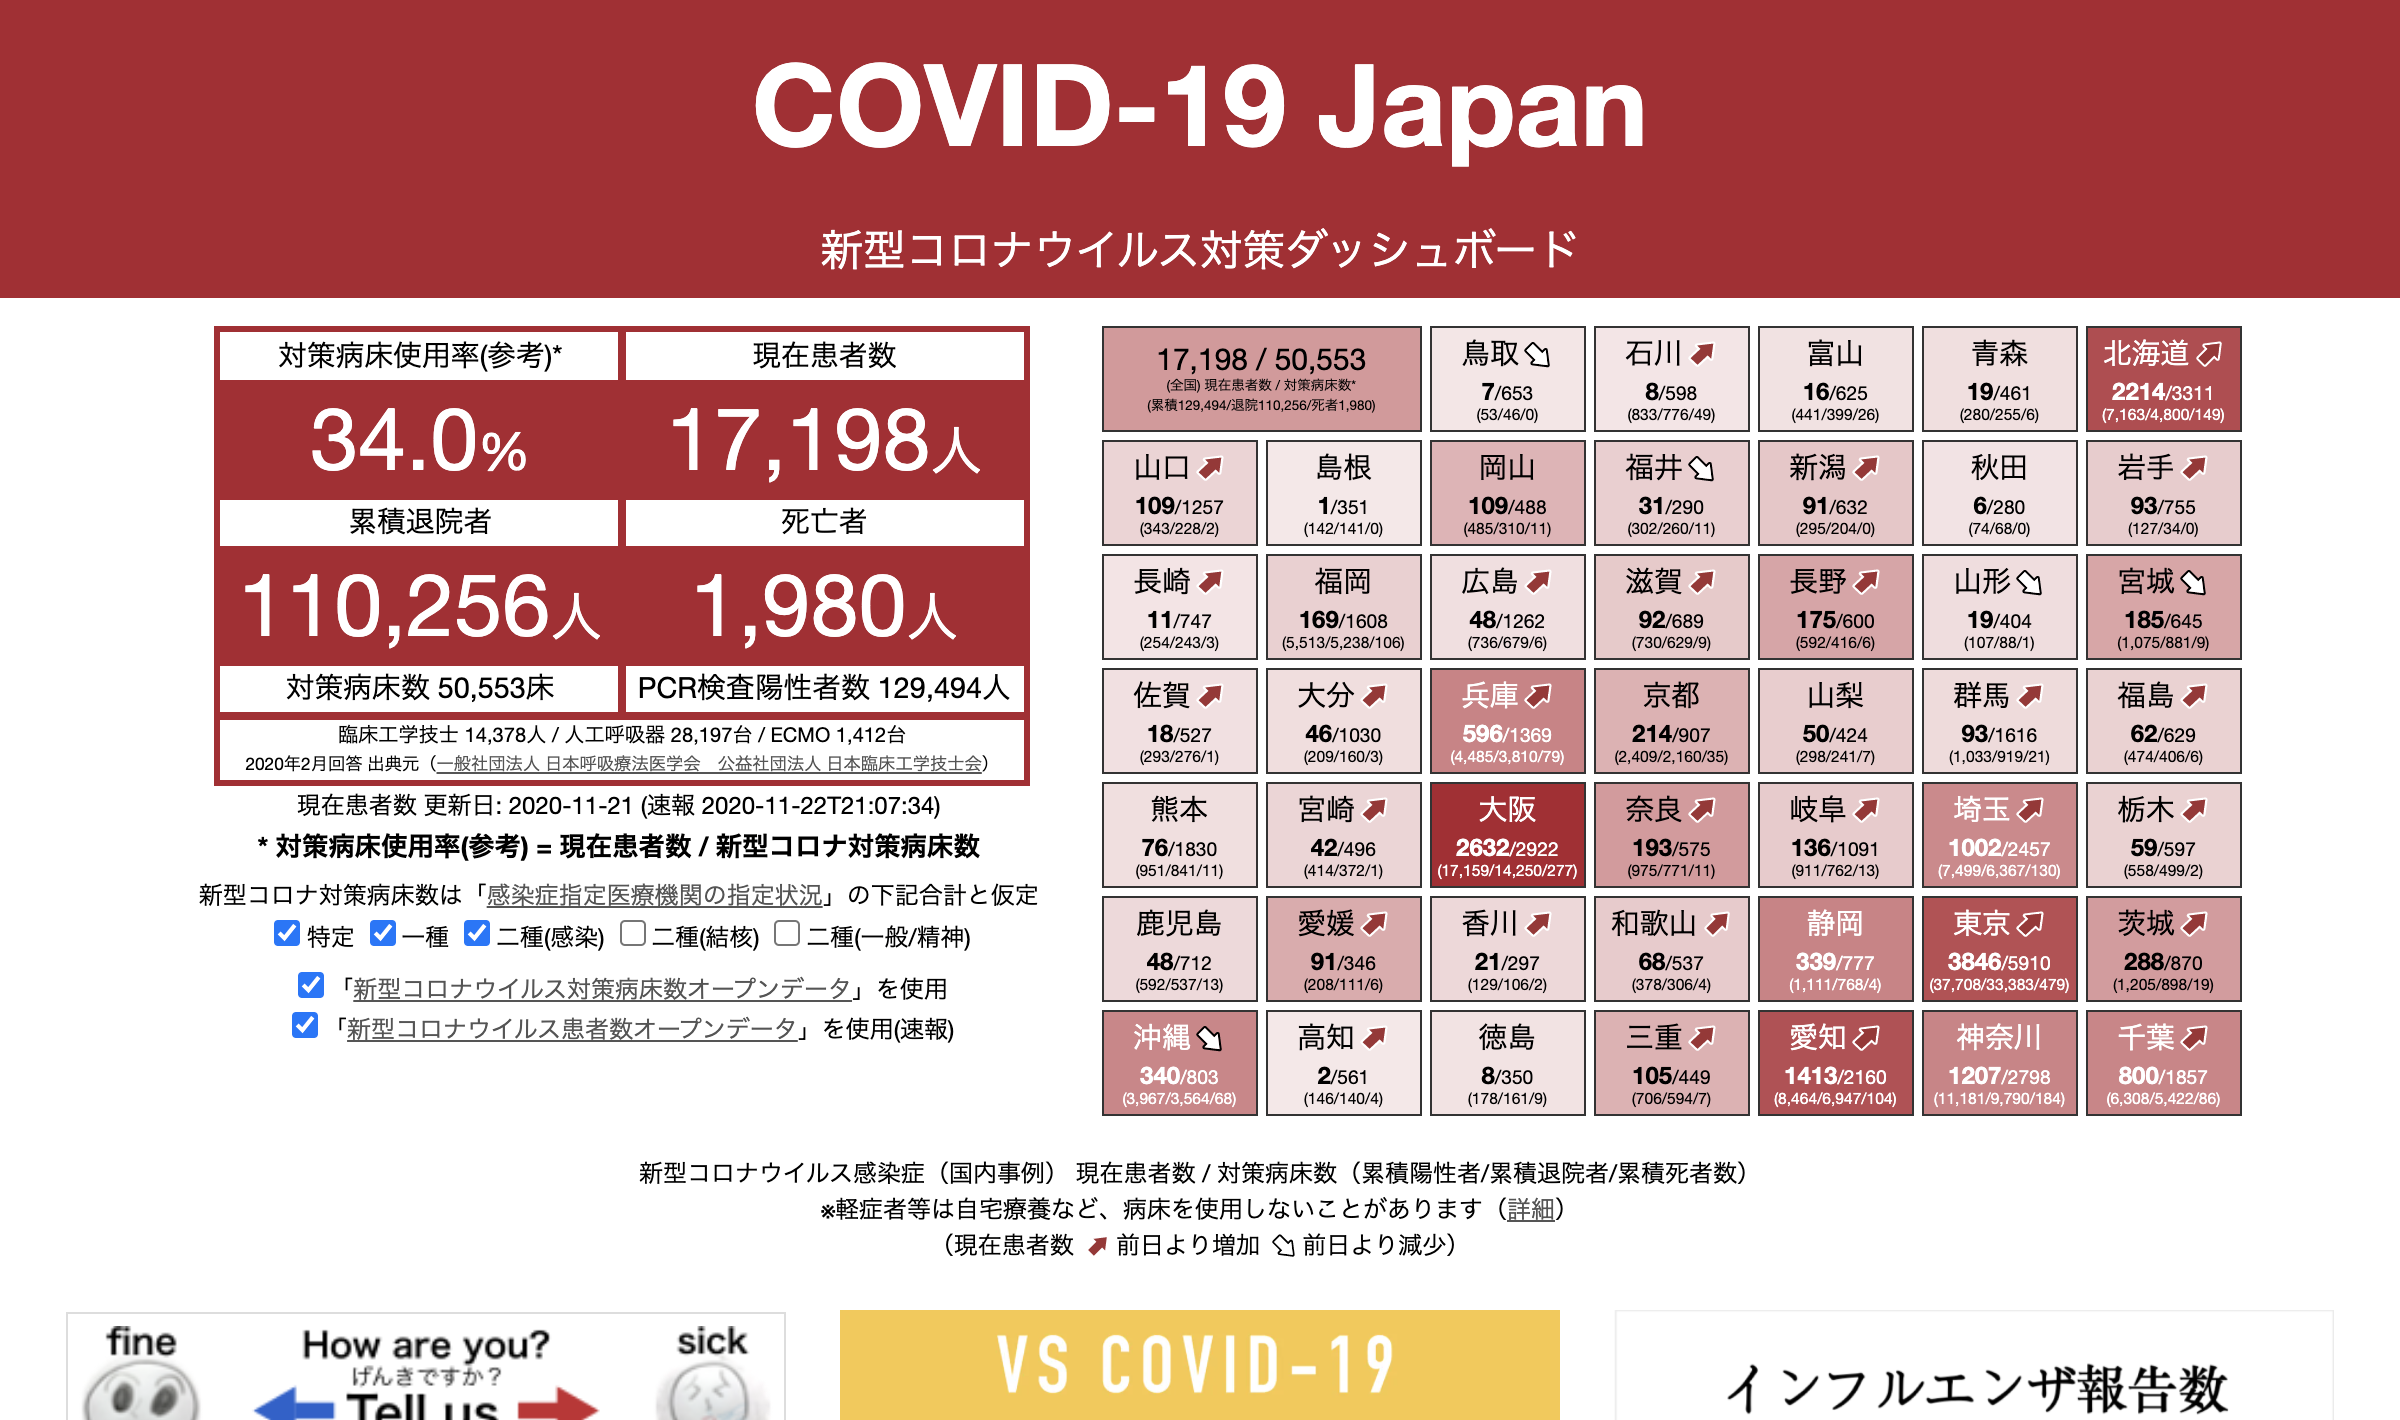
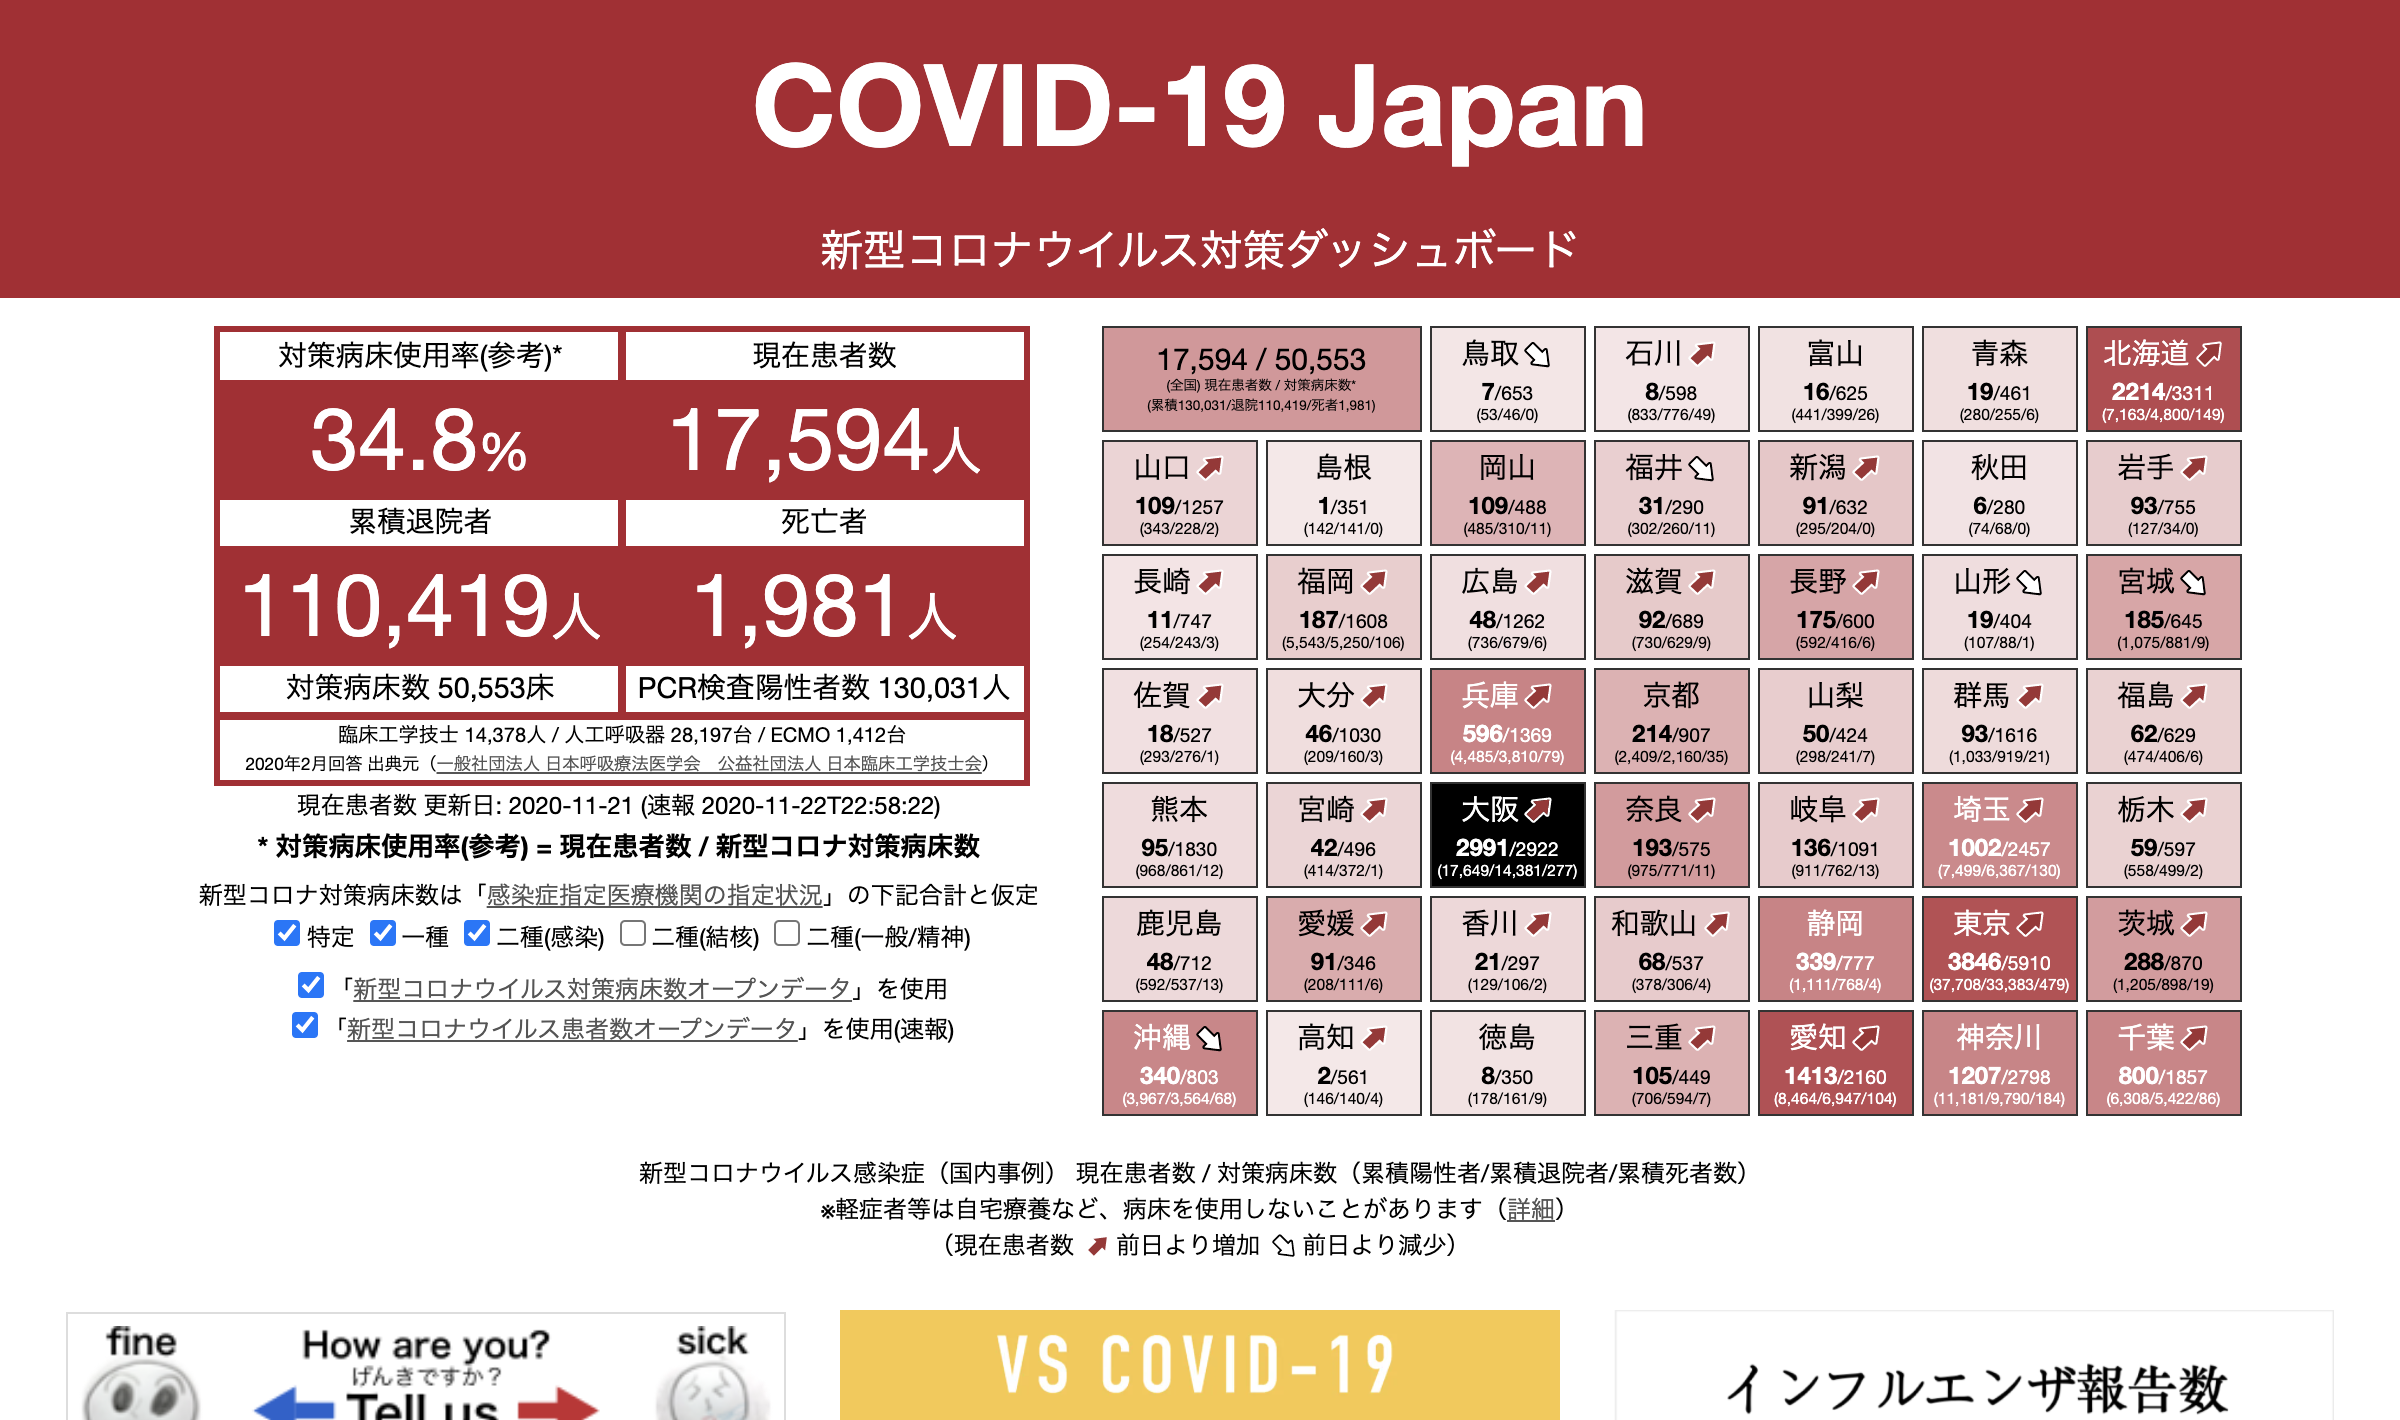
update data

diff --git a/index.html b/index.html
@@ -19,8 +19,8 @@ gtag('config', 'UA-162141832-1')
 <link rel="apple-touch-icon" href="covid19japan-leargeicon.png"/>
 <meta name="msapplication-square310x310logo" content="covid19japan-leargeicon.png"/>
 <meta name="twitter:card" content="summary_large_image"/>
-<meta property="og:image"  content="https://www.stopcovid19.jp/ogp/covid19japan_ogp_20201122212307.png"/>
-<meta name="twitter:image" content="https://www.stopcovid19.jp/ogp/covid19japan_ogp_20201122212307.png"/>
+<meta property="og:image"  content="https://www.stopcovid19.jp/ogp/covid19japan_ogp_20201122234646.png"/>
+<meta name="twitter:image" content="https://www.stopcovid19.jp/ogp/covid19japan_ogp_20201122234646.png"/>
 
 <meta name="viewport" content="width=device-width, initial-scale=1.0"/>
 <meta name="format-detection" content="telephone=no"/>
